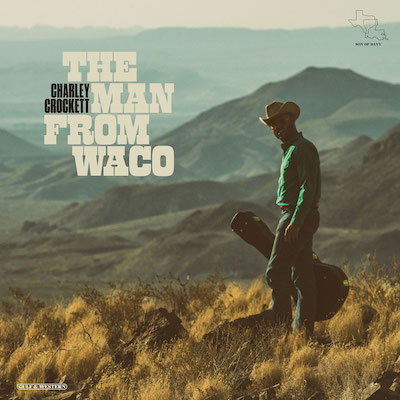
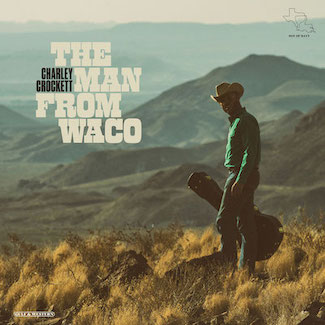
image resizing

diff --git a/css/andys-styles.css b/css/andys-styles.css
@@ -251,9 +251,6 @@ nav ul li {
 /* responsive web design */
 
 @media screen and (max-width: 400px) {
-    img {
-        width: 85%;
-    }
     nav ul {
         flex-direction: column;
         justify-content: space-around;
